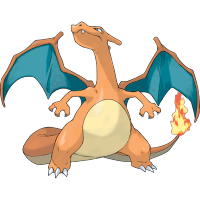
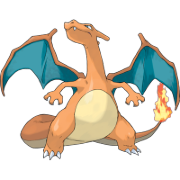
Fixed SW Films and hopefully resized pokemon image

diff --git a/StarWarsAPI/main.js b/StarWarsAPI/main.js
@@ -1,19 +1,21 @@
 import { films } from '../data/films.js'
+import { getLastNumber } from '../utils/index.js'
 
 const main = document.querySelector('main')
+
+
 
 for (let step = 0; step < 7; step++) {
     let figure = document.createElement('figure')
     let figImg = document.createElement('img')
-    figImg.src =   `https://starwars-visualguide.com/assets/img/films/${step + 1}.jpg`
-    
+    figImg.src = `https://starwars-visualguide.com/assets/img/films/${step + 1}.jpg` 
     let figCaption = document.createElement('figcaption')
-    figCaption.textContent = films[step].title
+    
+    const foundFilm = films.find(film => parseInt(getLastNumber(film.url)) === (step + 1))
+    figCaption.textContent = foundFilm.title
 
     figure.appendChild(figImg)
     figure.appendChild(figCaption)
 
     main.appendChild(figure)
-
-}
-
+  }

diff --git a/Pokemon/styles.css b/Pokemon/styles.css
@@ -1,6 +1,7 @@
 * {
     margin: 0;
     box-sizing: border-box;
+    font-family: sans-serif;
 }
 
 
@@ -17,7 +18,8 @@
 h1 {
     display: flex;
     justify-content: center;
-}
+    background-color: rgb(255, 236, 70);
+  }
 
 .scene {
     width: 200px;
@@ -51,9 +53,10 @@ h1 {
   }
   
   .card__face--back {
-    background: rgba(5, 30, 48, 0.651);
+    background: rgba(5, 30, 48, 0.466);
     transform: rotateY(540deg);
     border-radius: 0.50rem;
+    color: White;
   }
 
   .card.is-flipped {

diff --git a/Index.html b/Index.html
@@ -47,7 +47,7 @@
               <img class="project-image" src="https://www.barnorama.com/wp-content/images/2015/03/Star-Wars-Concept-Art/03-Star-Wars-Concept-Art.jpg"> 
               <p class="project-title">
                   <span class="code">&lt;</span>
-                  SW Films // In Progress
+                  Star Wars Films
                   <span class="code">&#47;&gt;</span>
                 </p>
           </a> 
